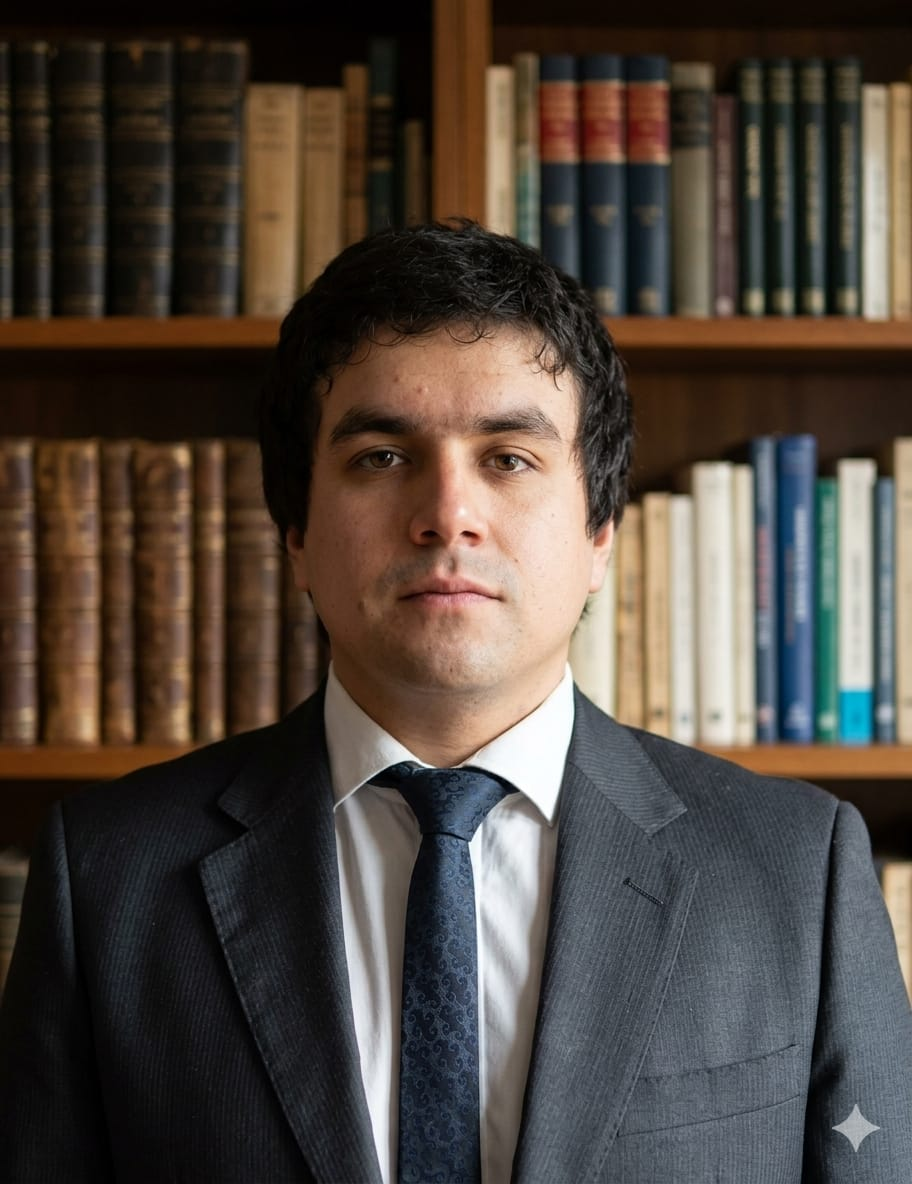
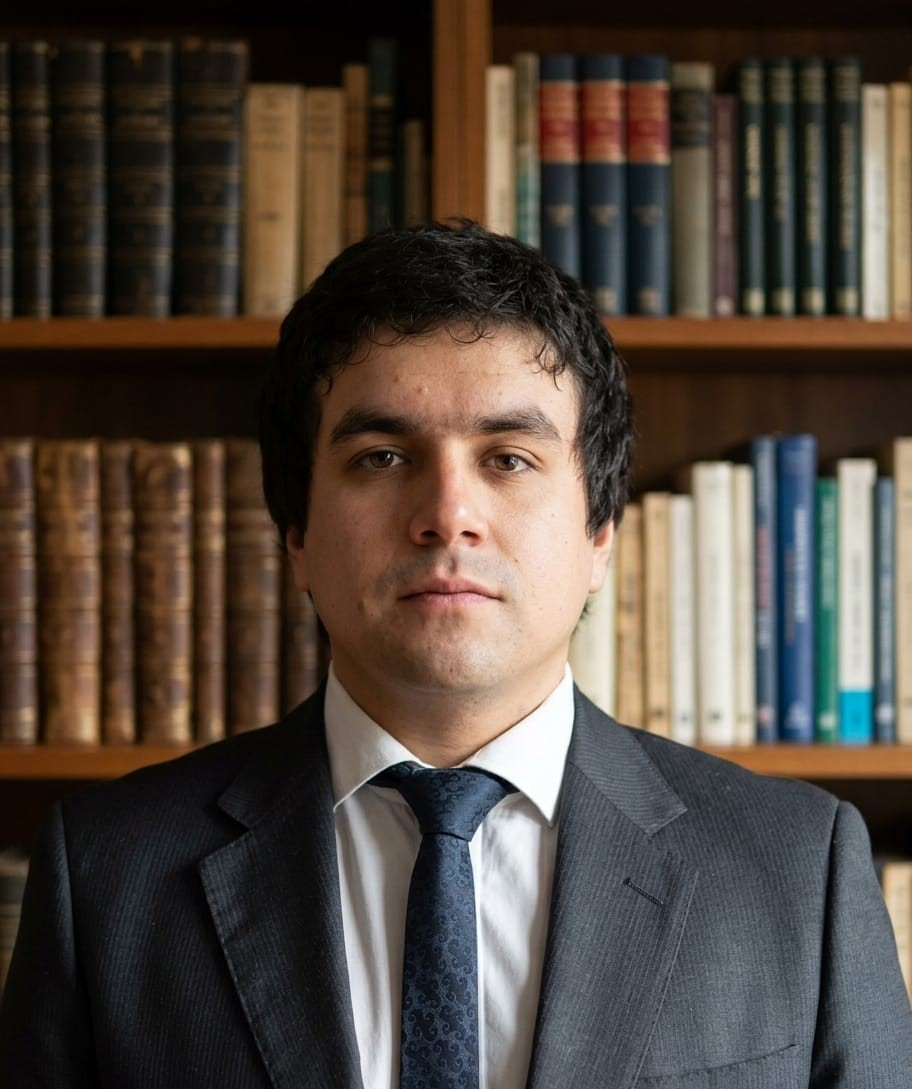
Se corrigio foto 'sebastian-abogado'

diff --git a/index.html b/index.html
@@ -155,7 +155,7 @@
 </button>
 
 <!-- WHATSAPP -->
-<a href="https://wa.me/56982208334?text=Hola, necesito asesoría jurídica" class="whatsapp-btn" target="_blank">
+<a href="https://wa.me/56934561091?text=Hola, necesito asesoría jurídica" class="whatsapp-btn" target="_blank">
   <i class="bi bi-whatsapp"></i>
 </a>
 
